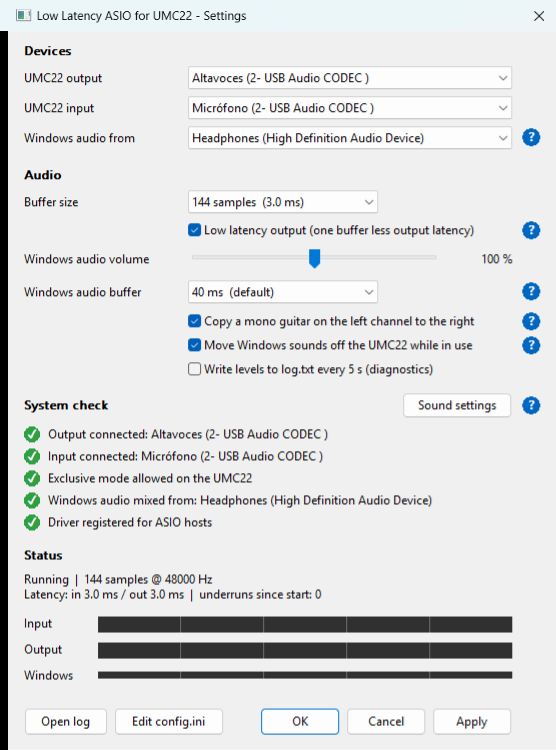
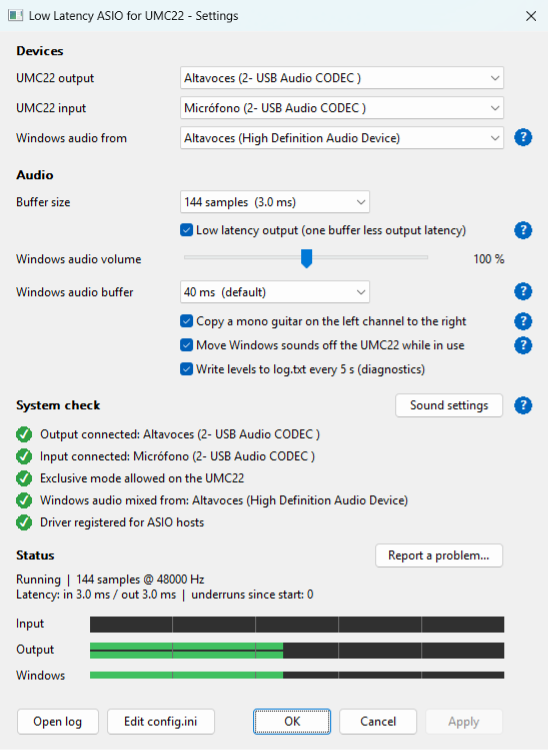
Release v1.2.1

diff --git a/umc22asio.cpp b/umc22asio.cpp
@@ -60,7 +60,7 @@ static const CLSID CLSID_UMC22 = { 0x6b3e2a71, 0x9c4d, 0x4f1e, { 0xb8, 0xa2, 0x5
 static const wchar_t* kClsidStr = L"{6B3E2A71-9C4D-4F1E-B8A2-5D7C0E91F3A4}";
 static const wchar_t* kDriverNameW = L"Low Latency ASIO for UMC22";
 static const char* kDriverName = "Low Latency ASIO for UMC22";
-static const long kDriverVersion = 0x010200;     // 1.2.0, reported to hosts and in problem reports
+static const long kDriverVersion = 0x010201;     // 1.2.1, reported to hosts and in problem reports
 static const char* kRepoUrl = "https://github.com/Tohzzicklao/umc22-asio";
 static const wchar_t* kLegacyNameW = L"UMC22 Low Latency"; // name used by v1.0.x, removed on (un)register
 

diff --git a/CHANGELOG.md b/CHANGELOG.md
@@ -1,5 +1,11 @@
 # Changelog
 
+## v1.2.1 — 2026-11-19
+
+- Settings window: **Report a problem...** button. It opens a new GitHub issue prefilled with the driver and Windows versions, the host, the settings, the status and the system check (user profile paths are replaced by `%USERPROFILE%`), and opens the log folder so `log.txt` can be attached.
+- Settings window: **Apply** stays disabled until a setting changes; OK without changes no longer rewrites `config.ini`.
+- Driver version reported to hosts: 1.2.1.
+
 ## v1.2.0 — 2026-11-19
 
 - **Lower output latency**: the host output goes straight into the UMC22 without an extra buffer, one buffer less output latency. At 144 samples the reported latency drops from 3 / 6 ms to **3 / 3 ms**. New `lowLatency` setting (on by default) to turn it off.
